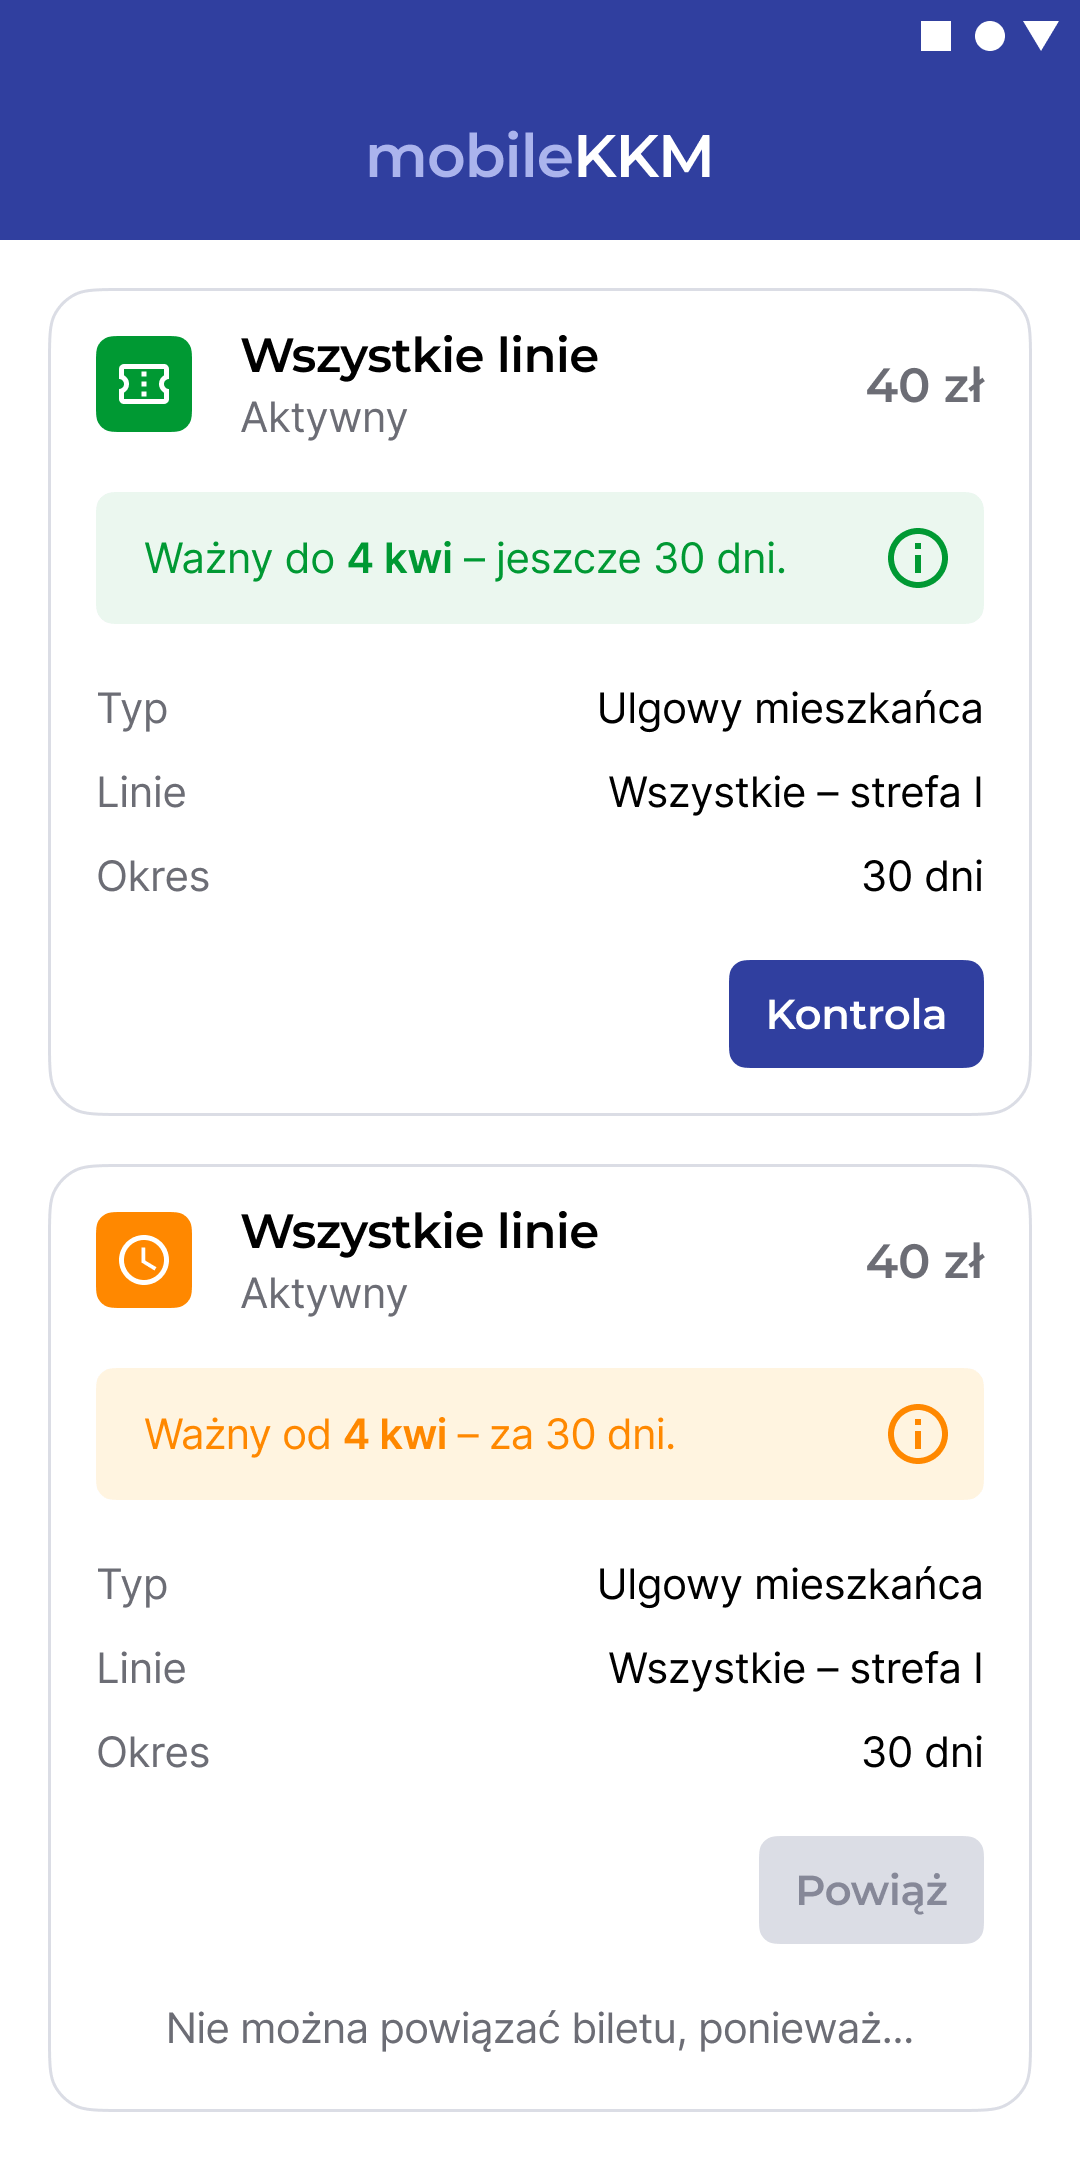
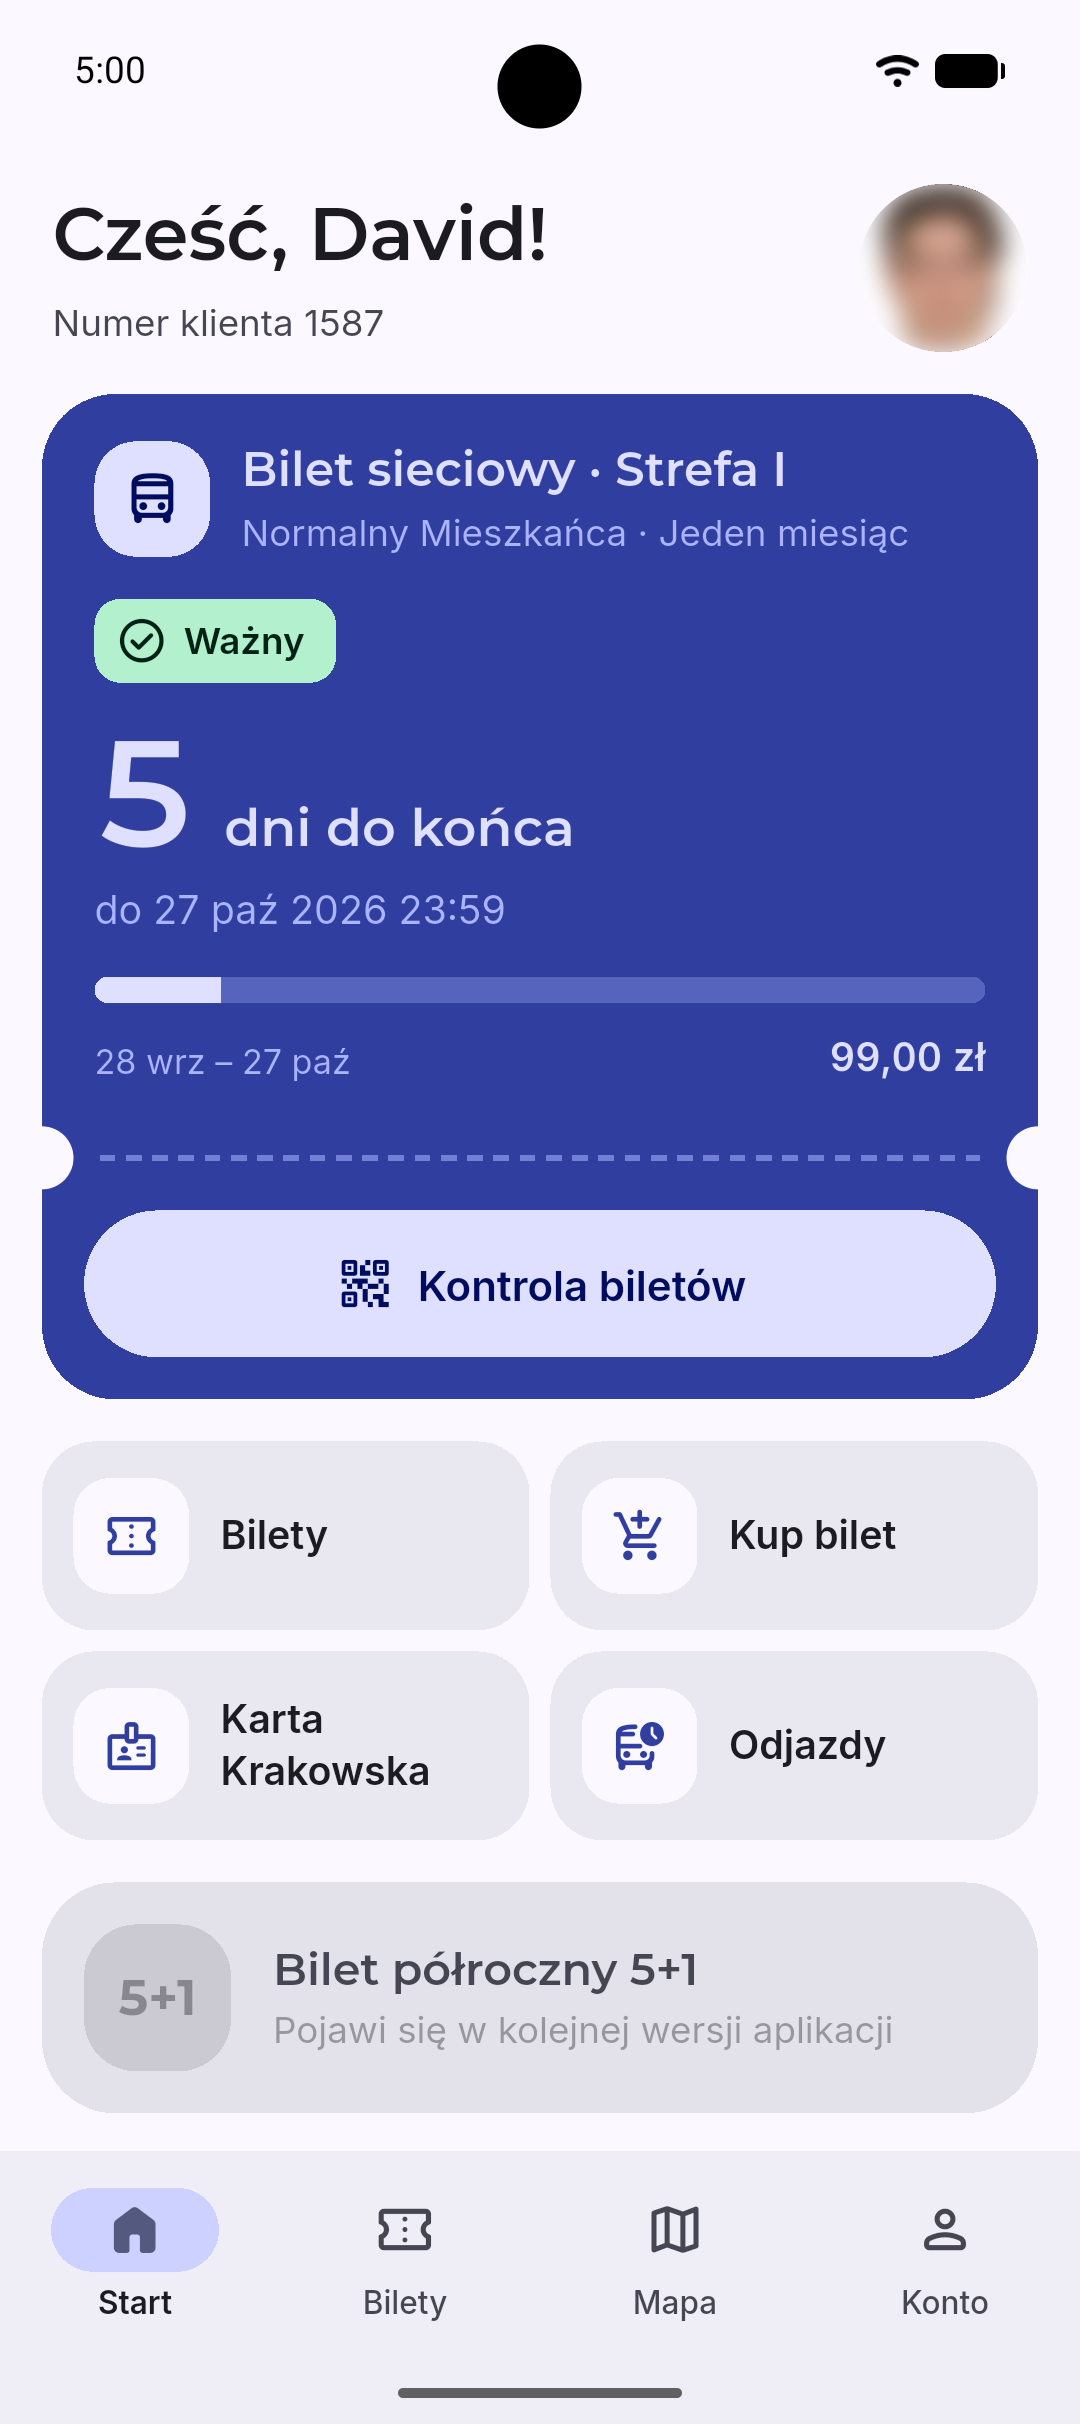
Update to Pixel 10a frame, new screenshot and app texts
- Replace device frame with the Pixel 10a emulator skin, recoloured black
- Draw the frame over the new home screen screenshot and refit it at all breakpoints
- Take page title and short description from the fastlane metadata
- Footer: refer to eKP and state no affiliation with ZTP or MPK S.A.

diff --git a/_sass/layout.scss b/_sass/layout.scss
@@ -39,7 +39,7 @@
   padding-left: 15px;
   padding-right: 15px;
   grid-template-columns: repeat(12, 1fr);
-  grid-template-rows: 115px 876px auto auto;
+  grid-template-rows: 115px 907px auto auto;
   grid-column-gap: 30px;
   grid-template-areas: 
     "h h h h h h h h h h h h"
@@ -412,28 +412,38 @@ nav > ul li a:active {
   background-size: 400px auto;
   background-repeat: no-repeat;
   margin-top: 68px;
+  position: relative;
+}
+
+// Draw the device frame on top of the screenshot
+.iphonePreview::after {
+  content: "";
+  position: absolute;
+  inset: 0;
+  background: inherit;
+  pointer-events: none;
 }
 
 .iphoneScreen {
-  width: 348px;
+  width: 355px;
   -webkit-clip-path: url(#screenMask);
   clip-path: url(#screenMask);
-  margin-left: 25px;
-  margin-top: 58px;
+  margin-left: 21px;
+  margin-top: 21px;
 }
 
 .videoContainer {
-  width: 348px;
-  height: 696px;
+  width: 355px;
+  height: 796px;
   -webkit-clip-path: url(#screenMask);
   clip-path: url(#screenMask);
-  margin-left: 25px;
-  margin-top: 58px;
+  margin-left: 21px;
+  margin-top: 21px;
 }
 
 .videoContainer > video {
-  width: 348px;
-  height: 696px;
+  width: 355px;
+  height: 796px;
 }
 
 @media only screen and (max-width: 1070px) {
@@ -443,21 +453,21 @@ nav > ul li a:active {
   }
 
   .iphoneScreen {
-    width: 322px;
-    margin-left: 23px;
-    margin-top: 54px;
+    width: 328px;
+    margin-left: 20px;
+    margin-top: 19px;
   }
 
   .videoContainer {
-    width: 322px;
-    height: 644px;
-    margin-left: 23px;
-    margin-top: 54px;
+    width: 328px;
+    height: 736px;
+    margin-left: 20px;
+    margin-top: 19px;
   }
   
   .videoContainer > video {
-    width: 322px;
-    height: 644px;
+    width: 328px;
+    height: 736px;
   }
   
 } 
@@ -474,24 +484,24 @@ nav > ul li a:active {
   }
 
   .iphoneScreen {
-    width: 226px;
-    height: 452px;
+    width: 230px;
+    height: 517px;
     -webkit-clip-path: url(#screenMask);
     clip-path: url(#screenMask);
     margin: 0px;
-    margin-top: 38px;
+    margin-top: 14px;
   }
 
   .videoContainer {
-    width: 226px;
-    height: 452px;
+    width: 230px;
+    height: 517px;
     margin-left: 0px;
-    margin-top: 38px;
+    margin-top: 14px;
   }
 
   .videoContainer > video {
-    width: 226px;
-    height: 452px;
+    width: 230px;
+    height: 517px;
   }
   
 } 

diff --git a/_layouts/default.html b/_layouts/default.html
@@ -12,7 +12,7 @@
                 <div class="iphonePreview">
                     <svg version="1.1" xmlns="http://www.w3.org/2000/svg" xmlns:xlink="http://www.w3.org/1999/xlink" width="0" height="0" style="position: absolute;">
                         <clipPath id="screenMask" clipPathUnits="objectBoundingBox">
-                            <rect id="rect105" width="1" height="1" x="0" y="0" rx="0.07" ry="0.035" />
+                            <rect id="rect105" width="1" height="1" x="0" y="0" rx="0.137" ry="0.0611" />
                         </clipPath>
                     </svg>
                     <img class="iphoneScreen" src="{{ 'assets/img/screenshot.png' | relative_url }}" alt="App preview">
